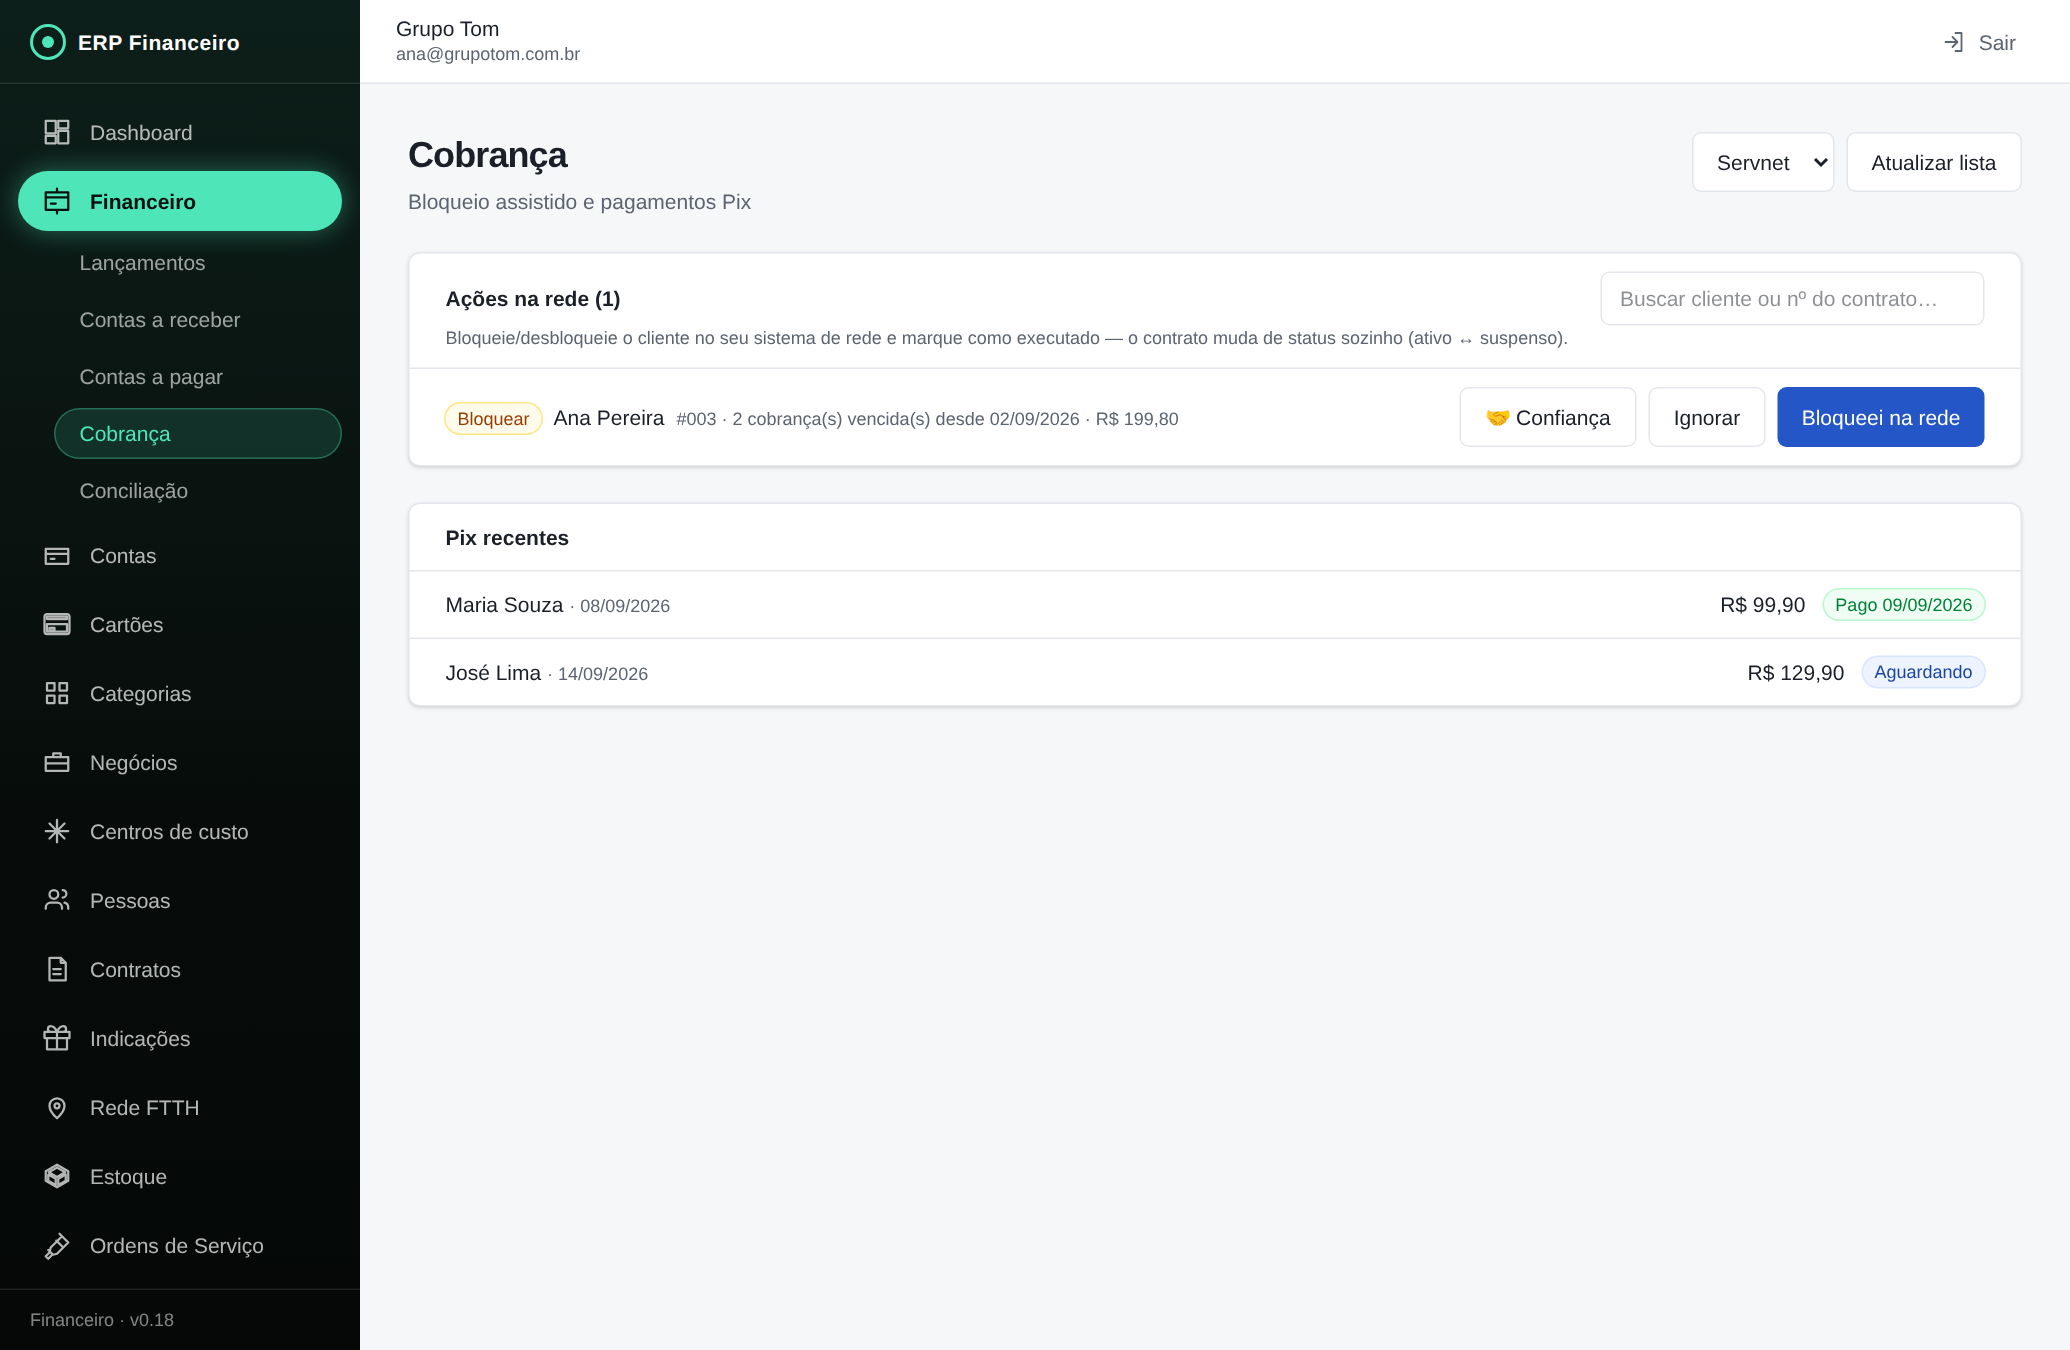
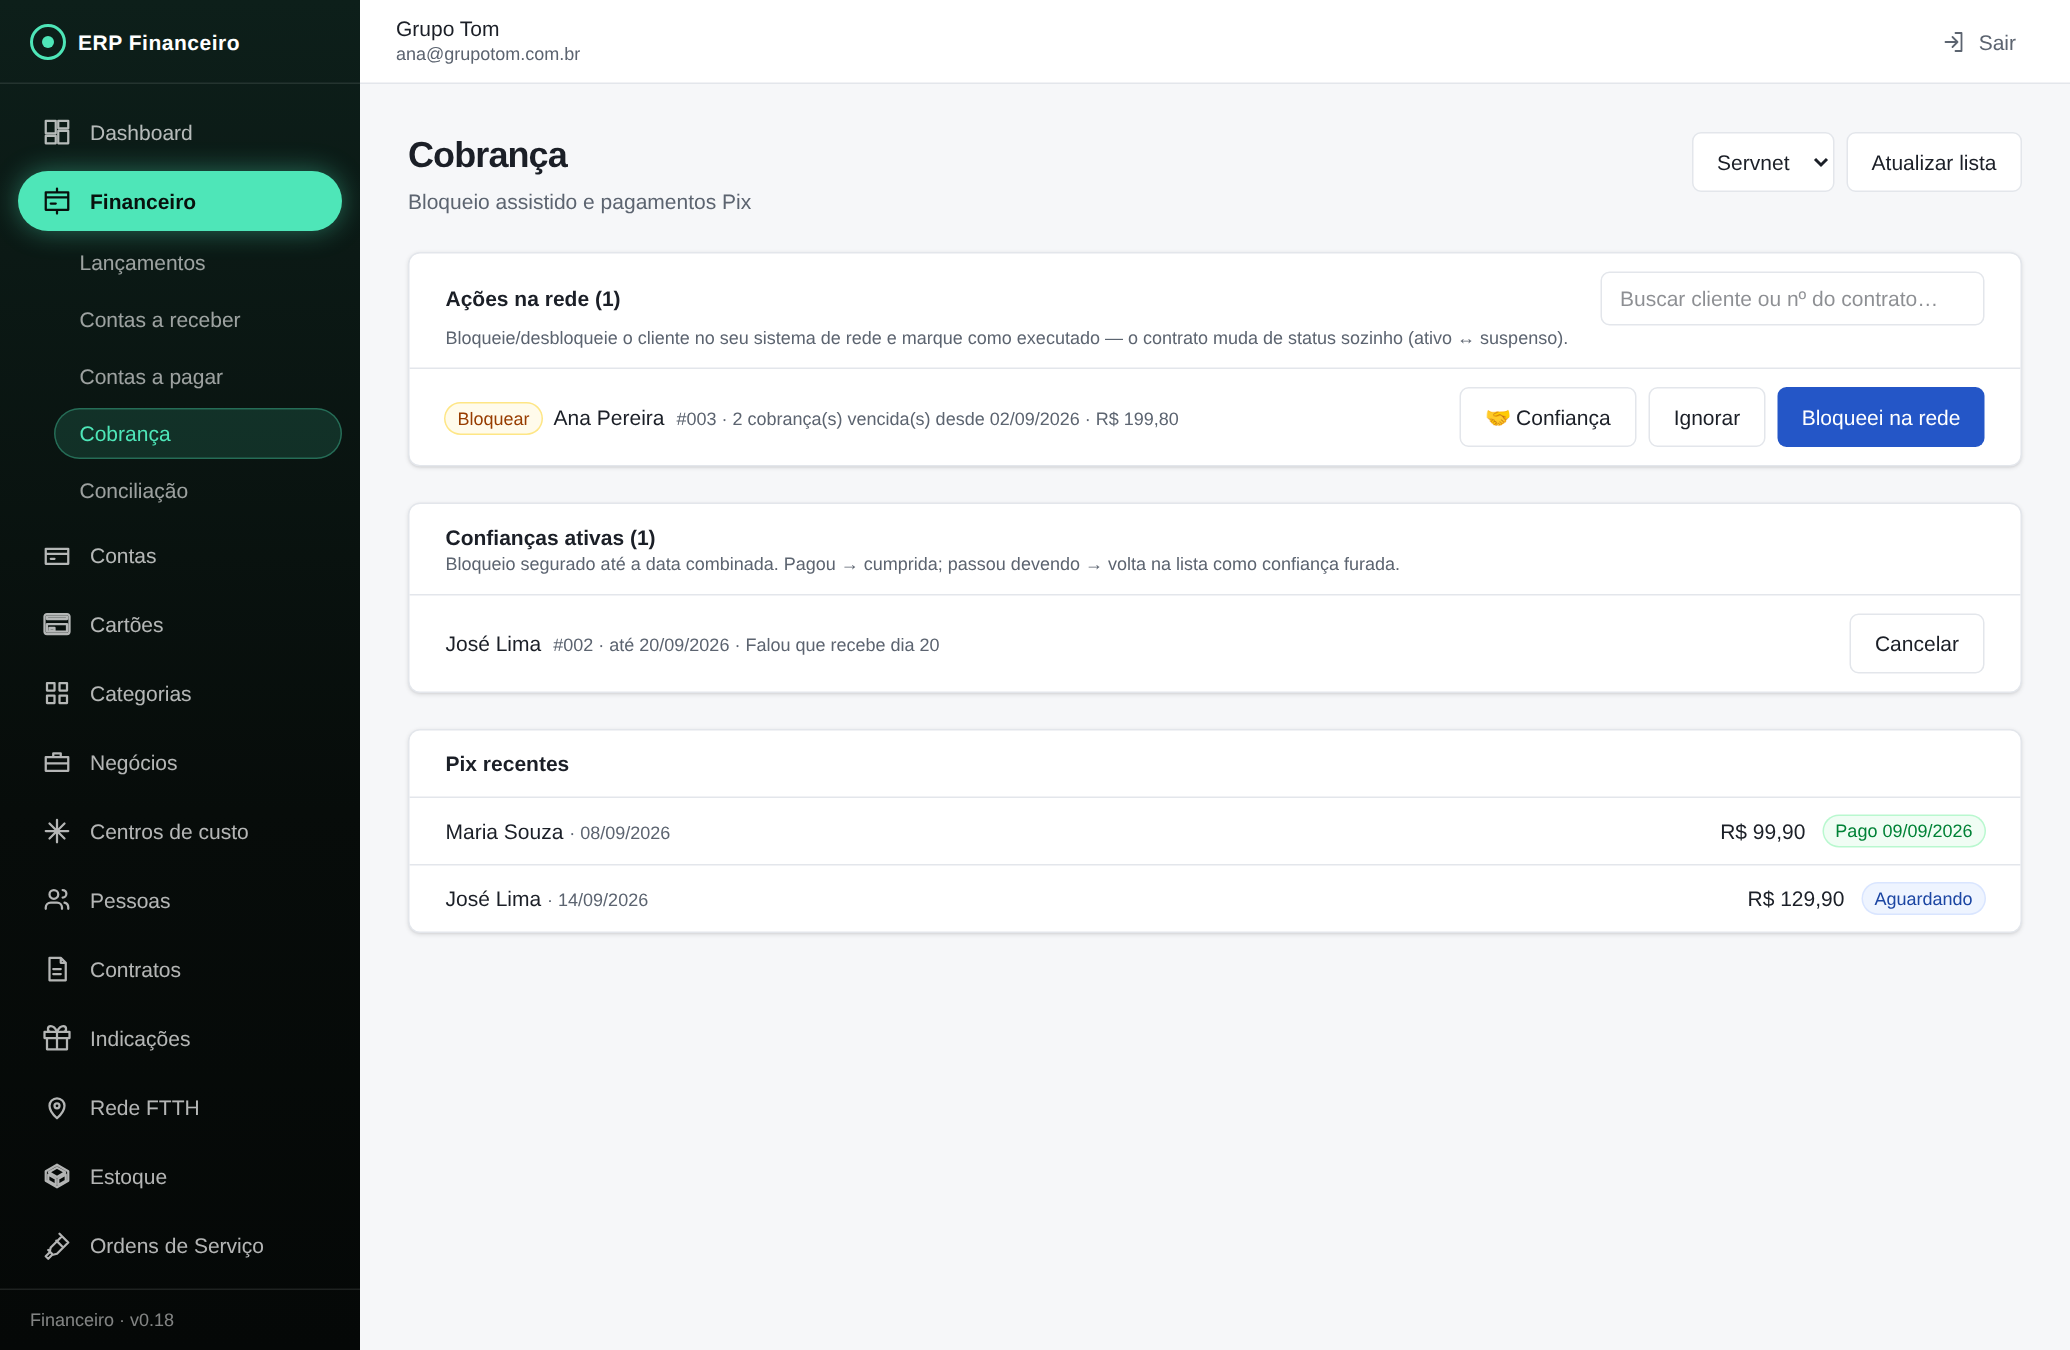
contas a receber: promessa de pagamento visível e editável na própria tela
O voto de confiança (etapa 47) já existia, mas só aparecia e só podia ser
dado na tela Cobrança — quem está olhando Contas a receber não via que o
cliente prometeu pagar em outro dia.

- Linha do cliente com promessa ativa ganha o selo '🤝 Paga até DD/MM'
  (com o combinado no title), no desktop e no celular.
- Ação '🤝 Promessa' na linha (só em contas a receber, só com contrato):
  registra, atualiza ou cancela a promessa sem sair da tela.
- Hooks compartilhados em modules/financeiro/confiancas.ts usando a mesma
  chave de cache da Cobrança — dar/cancelar em uma tela reflete na outra
  na hora, sem tocar no banco (dar_confianca/cancelar_confianca já existem).

Manual atualizado; prints regerados (fixture com uma promessa ativa).

Claude-Session: https://claude.ai/code/session_01LvKVVJXHUTGGnyzXpwt5fU

diff --git a/app/src/modules/financeiro/pages/ContasPage.tsx b/app/src/modules/financeiro/pages/ContasPage.tsx
@@ -20,6 +20,7 @@ import { useCategorias } from '../../categorias/api'
 import { codigoContrato } from '../../contratos/tipos'
 import { useBaixaParcial, useCancelarLancamento, useCriarLancamento, useEfetivarLancamento, useLancamentos, useLancamentosVencidosAntes } from '../../lancamentos/api'
 import { rotuloParcela, type Lancamento } from '../../lancamentos/tipos'
+import { useCancelarConfianca, useConfiancasAtivas, useDarConfianca, type Confianca } from '../confiancas'
 
 const diasAtraso = (vencimento: string) => Math.max(0, Math.round((Date.parse(hojeISO()) - Date.parse(vencimento)) / 86400000))
 
@@ -109,6 +110,20 @@ function ContasPage({ tipo }: { tipo: 'receita' | 'despesa' }) {
   const [acao, setAcao] = useState<Acao>(null); const [dataBaixa, setDataBaixa] = useState(hojeISO()); const [valorParcial, setValorParcial] = useState(''); const [motivo, setMotivo] = useState(''); const [encargos, setEncargos] = useState(''); const [contaBaixa, setContaBaixa] = useState('')
   const categorias = useCategorias()
   const criarAjuste = useCriarLancamento()
+  // promessa de pagamento (voto de confiança): só faz sentido em contas a receber
+  const confiancas = useConfiancasAtivas(receber)
+  const darConfianca = useDarConfianca()
+  const cancelarConfianca = useCancelarConfianca()
+  const confiancaPorContrato = useMemo(() => new Map((confiancas.data ?? []).map((c) => [c.contrato_id, c])), [confiancas.data])
+  const [promessa, setPromessa] = useState<{ l: Lancamento; atual: Confianca | undefined } | null>(null)
+  const [promessaAte, setPromessaAte] = useState(''); const [promessaObs, setPromessaObs] = useState('')
+  const promessaDe = (l: Lancamento) => (receber && l.contrato_id ? confiancaPorContrato.get(l.contrato_id) : undefined)
+  function abrirPromessa(l: Lancamento) {
+    const atual = l.contrato_id ? confiancaPorContrato.get(l.contrato_id) : undefined
+    setPromessaAte(atual?.segurar_ate ?? ''); setPromessaObs(atual?.observacao ?? '')
+    darConfianca.reset(); cancelarConfianca.reset()
+    setPromessa({ l, atual })
+  }
   const nomePessoa = useMemo(() => new Map((pessoas.data ?? []).map((p) => [p.id, p.nome])), [pessoas.data])
   const contratoPorId = useMemo(() => new Map((contratos.data ?? []).map((c) => [c.id, c])), [contratos.data])
   const contaPorId = useMemo(() => new Map((contas.data ?? []).map((c) => [c.id, c])), [contas.data])
@@ -273,9 +288,11 @@ function ContasPage({ tipo }: { tipo: 'receita' | 'despesa' }) {
                     <p className="mt-1.5 flex flex-wrap items-center gap-2 text-xs">
                       {ehCortesia(l) ? <Distintivo tom="info">Cortesia</Distintivo> : <Distintivo tom={TOM[st]}>{st === 'pago' ? (receber ? 'Recebido' : 'Pago') : ROTULO[st]}</Distintivo>}
                       {l.data_efetivacao && <span className="text-ink-muted">{formatarData(l.data_efetivacao)}</span>}
+                      {promessaDe(l) && <Distintivo tom="info">{`🤝 Paga até ${formatarData(promessaDe(l)!.segurar_ate)}`}</Distintivo>}
                       {l.status === 'previsto' && <>
                         <button type="button" className="text-brand-700 hover:underline" onClick={() => setAcao({ tipo: 'baixa', l })}>{receber ? 'Receber' : 'Pagar'}</button>
                         <button type="button" className="text-brand-700 hover:underline" onClick={() => setAcao({ tipo: 'parcial', l })}>Baixa parcial</button>
+                        {receber && l.contrato_id && <button type="button" className="text-brand-700 hover:underline" onClick={() => abrirPromessa(l)}>🤝 Promessa</button>}
                         <button type="button" className="text-ink-muted hover:underline" onClick={() => setAcao({ tipo: 'cancelar', l })}>Cancelar</button>
                       </>}
                     </p>
@@ -309,8 +326,12 @@ function ContasPage({ tipo }: { tipo: 'receita' | 'despesa' }) {
                   <td className="px-4 py-3"><span className="font-medium">{l.descricao}</span>{c && <span className="ml-2 font-mono text-xs text-ink-muted">{codigoContrato(c)}</span>}{l.recorrente && <span className="ml-2 text-xs text-ink-muted">🔄 {rotuloParcela(l)}</span>}{l.observacao && <p className="text-xs text-ink-muted">{l.observacao}</p>}</td>
                   <td className="whitespace-nowrap px-4 py-3">{l.pessoa_id ? nomePessoa.get(l.pessoa_id) ?? '—' : '—'}</td>
                   <td className="whitespace-nowrap px-4 py-3 text-right font-medium tabular-nums">{ehCortesia(l) ? <span className="text-ink-muted line-through">{formatarMoeda(l.valor)}</span> : formatarMoeda(l.valor)}</td>
-                  <td className="whitespace-nowrap px-4 py-3">{ehCortesia(l) ? <Distintivo tom="info">Cortesia</Distintivo> : <Distintivo tom={TOM[st]}>{st === 'pago' ? (receber ? 'Recebido' : 'Pago') : ROTULO[st]}</Distintivo>}{l.data_efetivacao && <span className="ml-1 text-xs text-ink-muted">{formatarData(l.data_efetivacao)}</span>}</td>
-                  <td className="whitespace-nowrap px-4 py-3 text-right">{l.status === 'previsto' && <><button type="button" className="text-brand-700 hover:underline" onClick={() => setAcao({ tipo: 'baixa', l })}>{receber ? 'Receber' : 'Pagar'}</button><button type="button" className="ml-3 text-brand-700 hover:underline" onClick={() => setAcao({ tipo: 'parcial', l })}>Baixa parcial</button><button type="button" className="ml-3 text-ink-muted hover:underline" onClick={() => setAcao({ tipo: 'cancelar', l })}>Cancelar</button></>}</td>
+                  <td className="whitespace-nowrap px-4 py-3">
+                    {ehCortesia(l) ? <Distintivo tom="info">Cortesia</Distintivo> : <Distintivo tom={TOM[st]}>{st === 'pago' ? (receber ? 'Recebido' : 'Pago') : ROTULO[st]}</Distintivo>}
+                    {l.data_efetivacao && <span className="ml-1 text-xs text-ink-muted">{formatarData(l.data_efetivacao)}</span>}
+                    {promessaDe(l) && <span className="ml-1" title={promessaDe(l)!.observacao ?? undefined}><Distintivo tom="info">{`🤝 Paga até ${formatarData(promessaDe(l)!.segurar_ate)}`}</Distintivo></span>}
+                  </td>
+                  <td className="whitespace-nowrap px-4 py-3 text-right">{l.status === 'previsto' && <><button type="button" className="text-brand-700 hover:underline" onClick={() => setAcao({ tipo: 'baixa', l })}>{receber ? 'Receber' : 'Pagar'}</button><button type="button" className="ml-3 text-brand-700 hover:underline" onClick={() => setAcao({ tipo: 'parcial', l })}>Baixa parcial</button>{receber && l.contrato_id && <button type="button" className="ml-3 text-brand-700 hover:underline" onClick={() => abrirPromessa(l)}>🤝 Promessa</button>}<button type="button" className="ml-3 text-ink-muted hover:underline" onClick={() => setAcao({ tipo: 'cancelar', l })}>Cancelar</button></>}</td>
                 </tr>) })}</tbody>
             </table></div>
             </>
@@ -342,6 +363,28 @@ function ContasPage({ tipo }: { tipo: 'receita' | 'despesa' }) {
             {acao.tipo === 'parcial' && <><Campo rotulo={receber ? 'Valor recebido (R$)' : 'Valor pago (R$)'} type="number" step="0.01" min="0.01" value={valorParcial} onChange={(e) => setValorParcial(e.target.value)} autoFocus /><p className="text-xs text-ink-muted">O restante ({parcialValido ? formatarMoeda(Math.round((acao.l.valor - vParcial) * 100) / 100) : '…'}) continua previsto com o mesmo vencimento.</p></>}
             {acao.tipo === 'cancelar' && <Campo rotulo="Motivo (opcional)" value={motivo} onChange={(e) => setMotivo(e.target.value)} maxLength={200} />}
             <div className="flex justify-end gap-2"><Botao variante="secundario" onClick={fechar}>Voltar</Botao><Botao variante={acao.tipo === 'cancelar' ? 'perigo' : 'primario'} onClick={confirmar} carregando={ocupado} disabled={(acao.tipo === 'parcial' && !parcialValido) || pagoInsuficiente}>Confirmar</Botao></div>
+          </div>
+        )}
+      </Modal>
+      <Modal aberto={promessa !== null} aoFechar={() => setPromessa(null)} largura="md" titulo="Promessa de pagamento">
+        {promessa && (
+          <div className="space-y-4">
+            {(darConfianca.error ?? cancelarConfianca.error) && <Alerta tipo="erro">{mensagemDeErro(darConfianca.error ?? cancelarConfianca.error)}</Alerta>}
+            <p className="text-sm"><span className="font-medium">{promessa.l.pessoa_id ? nomePessoa.get(promessa.l.pessoa_id) ?? '—' : '—'}</span> · {formatarMoeda(promessa.l.valor)} · vence {formatarData(promessa.l.data_vencimento)}</p>
+            <p className="text-xs text-ink-muted">O cliente prometeu pagar até a data? O bloqueio fica segurado até lá e a promessa aparece nesta tela e na Cobrança. Pagou no prazo → confiança cumprida; passou devendo → volta destacado como <b>confiança furada</b>.</p>
+            <Campo rotulo="Pagar até" type="date" value={promessaAte} min={new Date(Date.now() + 86400000).toISOString().slice(0, 10)} onChange={(e) => setPromessaAte(e.target.value)} />
+            <Campo rotulo="Combinado (opcional)" value={promessaObs} onChange={(e) => setPromessaObs(e.target.value)} maxLength={200} placeholder="Ex.: falou que recebe dia 20" />
+            <div className="flex flex-wrap justify-end gap-2">
+              {promessa.atual && (
+                <Botao variante="perigo" carregando={cancelarConfianca.isPending}
+                  onClick={() => cancelarConfianca.mutate(promessa.atual!.id, { onSuccess: () => setPromessa(null) })}>Cancelar promessa</Botao>
+              )}
+              <Botao variante="secundario" onClick={() => setPromessa(null)}>Voltar</Botao>
+              <Botao disabled={!promessaAte} carregando={darConfianca.isPending}
+                onClick={() => promessa.l.contrato_id && darConfianca.mutate({ contratoId: promessa.l.contrato_id, segurarAte: promessaAte, observacao: promessaObs.trim() || null }, { onSuccess: () => setPromessa(null) })}>
+                {promessa.atual ? 'Atualizar' : 'Registrar'}
+              </Botao>
+            </div>
           </div>
         )}
       </Modal>

diff --git a/app/src/modules/financeiro/confiancas.ts b/app/src/modules/financeiro/confiancas.ts
@@ -1,0 +1,63 @@
+import { useMutation, useQuery, useQueryClient } from '@tanstack/react-query'
+import { supabase } from '../../core/supabase/client'
+import { useOrganizacao } from '../../core/organizacao/useOrganizacao'
+
+/** Voto de confiança (etapa 47): o cliente prometeu pagar até a data, e o bloqueio fica segurado até lá.
+ *  Mesma chave de cache da tela Cobrança — dar/cancelar em Contas a receber reflete lá na hora e vice-versa. */
+export interface Confianca {
+  id: string
+  negocio_id: string
+  contrato_id: string
+  pessoa_id: string
+  segurar_ate: string
+  observacao: string | null
+  status: 'ativa' | 'cumprida' | 'furada' | 'cancelada'
+}
+
+const chave = (org: string) => ['cobranca', org] as const
+
+export function useConfiancasAtivas(habilitado = true) {
+  const { organizacao } = useOrganizacao()
+  return useQuery({
+    enabled: habilitado,
+    queryKey: [...chave(organizacao.id), 'confiancas'],
+    queryFn: async (): Promise<Confianca[]> => {
+      const { data, error } = await supabase.from('confiancas')
+        .select('id, negocio_id, contrato_id, pessoa_id, segurar_ate, observacao, status')
+        .eq('organizacao_id', organizacao.id).eq('status', 'ativa').order('segurar_ate')
+      if (error) throw error
+      return (data ?? []) as Confianca[]
+    },
+  })
+}
+
+function useInvalidarConfiancas() {
+  const { organizacao } = useOrganizacao()
+  const qc = useQueryClient()
+  return () => {
+    void qc.invalidateQueries({ queryKey: chave(organizacao.id) })
+    void qc.invalidateQueries({ queryKey: ['contratos', organizacao.id] })
+  }
+}
+
+export function useDarConfianca() {
+  const invalidar = useInvalidarConfiancas()
+  return useMutation({
+    mutationFn: async (p: { contratoId: string; segurarAte: string; observacao: string | null }) => {
+      const { error } = await supabase.rpc('dar_confianca', { p_contrato_id: p.contratoId, p_segurar_ate: p.segurarAte, p_observacao: p.observacao })
+      if (error) throw error
+    },
+    onSuccess: invalidar,
+  })
+}
+
+export function useCancelarConfianca() {
+  const invalidar = useInvalidarConfiancas()
+  return useMutation({
+    mutationFn: async (id: string) => {
+      const { error } = await supabase.rpc('cancelar_confianca', { p_id: id })
+      if (error) throw error
+    },
+    onSuccess: invalidar,
+  })
+}

diff --git a/docs/manual/README.md b/docs/manual/README.md
@@ -63,6 +63,8 @@ Todo o movimento do mês (receitas, despesas e transferências). Regras importan
 
 Só as receitas previstas do mês, com atrasadas destacadas. Pesquise pelo cliente e dê baixa direto no botão da linha.
 
+**🤝 Cliente prometeu pagar em outro dia?** Clique em **🤝 Prometeu pagar** na linha dele, escolha até quando e anote o combinado. A linha passa a mostrar o selo **🤝 Paga até DD/MM** aqui e na tela de Cobrança, e o bloqueio fica segurado até essa data. Pagou no prazo → a promessa se resolve sozinha como cumprida; passou devendo → ele volta na Cobrança destacado como **confiança furada** (você sabe que já confiou uma vez). Para desfazer, clique de novo na linha e use **Cancelar promessa**.
+
 ### 3.3 Contas a pagar
 
 ![Contas a pagar](img/05-contas-a-pagar.png)
